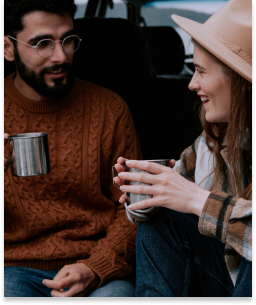
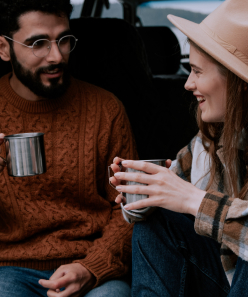
feat: add main

diff --git a/travel-blog/index.html b/travel-blog/index.html
@@ -30,12 +30,17 @@
     </header>
     <main class="main">
       <article class="blog">
-        <h1 class="blog-title">«Жизнь во время путешествия – это мечта в чистом виде»</h1>
-        <p class="blog-subtitle">
-          Этим летом многим из нас пришлось искать альтернативу привычному отдыху. Фрилансеры из Уфы Маша Гордеева и
-          Женя Михайлов все лето путешествовали по живописным местам России на своей машине. Они поделились с нами
-          своими впечатлениями, советами и лайфхаками.
-        </p>
+        <div class="blog-header">
+          <h1 class="blog-title">«Жизнь во время путешествия – это мечта в чистом виде»</h1>
+          <p class="blog-subtitle">
+            Этим летом многим из нас пришлось искать альтернативу привычному отдыху. Фрилансеры из Уфы Маша Гордеева и
+            Женя Михайлов все лето путешествовали по живописным местам России на своей машине. Они поделились с нами
+            своими впечатлениями, советами и лайфхаками.
+          </p>
+        </div>
+        <div class="img-wrapper__big blog-main_photo">
+          <img src="./assets/1.jpg" alt="герои играют на гитаре сидя на багажнике авто" />
+        </div>
         <p class="blog-text">
           Мы с ранних лет путешествовали с родителями по России. Это всегда было для нас долгожданным событием и всегда
           доставляло море положительных эмоций. В основном мы путешествовали по Краснодарскому краю, по приморским
@@ -60,6 +65,10 @@
           машина с вместительным багажником, поэтому дискомфорта не возникало. Вещей брали по минимуму, самое
           необходимое поместилось в пару рюкзаков.
         </p>
+        <div class="img-wrapper__small"><img src="./assets/2.jpg" alt="герои обнимаются на берегу реки" /></div>
+        <div class="img-wrapper__medium"><img src="./assets/3.jpg" alt="герои cмотрят карту" /></div>
+        <div class="img-wrapper__medium"><img src="./assets/4.jpg" alt="Маша фотографирует Женю в машине" /></div>
+        <div class="img-wrapper__small"><img src="./assets/5.jpg" alt="герои пьют чай сидя на багажнике авто" /></div>
         <p class="blog-text">
           Конечно помимо еды и жилья не стоит забывать о безопасности поездки. Мы сделали туристическую страховку, так
           как сплавлялись по реке. До поездки проверили всю машину, сделали ТО, диагностику. На всякий случай, купили
@@ -76,6 +85,10 @@
           что посетим и другие места России. Хочется съездить на Алтай, посетить Владивосток, съездить на юг страны.
           Хоть мы там и были, путешествие на машине дарит совсем другие впечатления.
         </p>
+        <div class="img-wrapper__small"><img src="./assets/6.jpg" alt="Маша на фоне дороги, уходящей вдаль" /></div>
+        <div class="img-wrapper__fullscreen">
+          <img src="./assets/7.jpg" alt="Портрет Жени и Маши, сидящих в скалах" />
+        </div>
       </article>
     </main>
     <footer class="footer">
@@ -86,7 +99,7 @@
       <p>© 2021 Все права защищены</p>
     </footer>
   </body>
-  <svg>
+  <svg class="base-svg">
     <symbol id="logo">
       <path d="M0 0.346154H13.6097V3.60989H8.6151V17.6538H4.96822V3.60989H0V0.346154Z" fill="#131313" />
       <path

diff --git a/travel-blog/styles.css b/travel-blog/styles.css
@@ -4,8 +4,14 @@
 }
 
 * {
+  box-sizing: border-box;
+
   font-family: 'Manrope', sans-serif;
   transition: 0.5s;
+}
+
+img {
+  vertical-align: middle;
 }
 
 .list {
@@ -25,13 +31,21 @@
   font-weight: 600;
 }
 
+.base-svg {
+  display: none;
+}
+
 .body {
+  display: flex;
+  flex-direction: column;
+  gap: 50px;
   max-width: 1600px;
   margin: 50px auto;
+  padding: 0 100px;
 }
 
 .header {
-  margin-bottom: 156px;
+  margin-bottom: 106px;
 }
 
 .nav {
@@ -49,4 +63,58 @@
 
   font-weight: 600;
   font-size: 16px;
+}
+
+.blog {
+  display: grid;
+  grid-template-columns: repeat(5, 1fr);
+  gap: 50px 39px;
+}
+
+.blog-header {
+  grid-column: span 2;
+}
+
+.img-wrapper__big {
+  max-width: 824px;
+}
+
+.blog-main_photo {
+  grid-column: span 3;
+  grid-row: span 2;
+}
+
+.img-wrapper__fullscreen {
+  grid-column: span 5;
+  max-width: 1400px;
+}
+
+.img-wrapper__medium {
+  grid-column: span 2;
+}
+
+.blog-text {
+  grid-column: span 2;
+
+  margin: 0;
+
+  font-size: 18px;
+  line-height: 150%;
+  font-weight: 400;
+}
+
+.blog-title {
+  margin: 0 0 30px 0;
+
+  font-size: 48px;
+  line-height: 130%;
+  font-weight: 800;
+}
+
+.blog-subtitle {
+  margin: 0;
+
+  font-size: 22px;
+  line-height: 150%;
+  font-weight: 600;
 }
